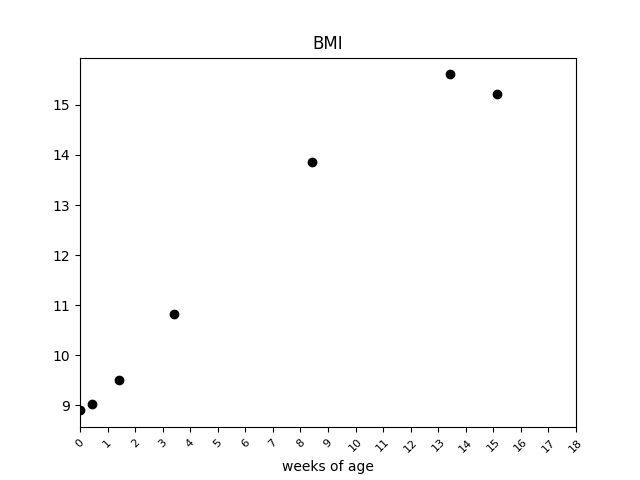
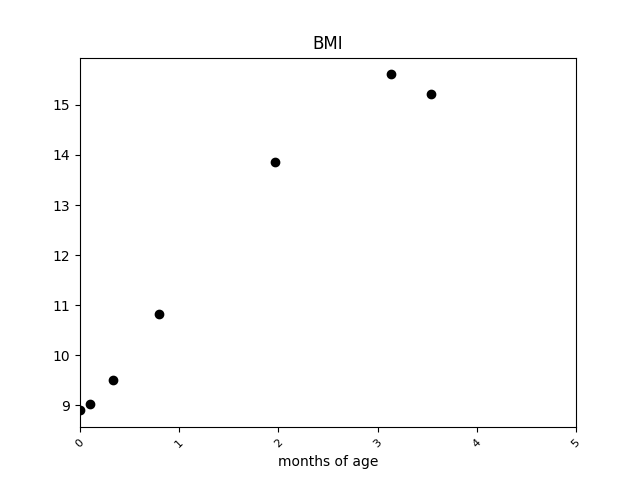
added option to display time in months instead of weeks

diff --git a/datita.py b/datita.py
@@ -253,43 +253,64 @@ def parse_dirty_diapers(lines_diapers):
     return data_diapers
 
 
-def week_ticks(data, label_type):
-    
+def write_date_tick_labels(date_tick_labels, the_datetime, week=None, month=None):
+
+    if label_type == 'week-date':
+        date_tick_labels.append('{month:d}/{day:d}'.format(month=the_datetime.month, day=the_datetime.day))
+    elif label_type == 'week':
+        date_tick_labels.append(week)
+    elif label_type == 'month':
+        date_tick_labels.append(month)
+        
+    return date_tick_labels
+
+
+def date_ticks(data, label_type):
+
     # determine starting week
     starting_week = 0
     for i in range(100):
         if birthdate + timedelta(weeks=i) <= data[0][0].date():
             starting_week = i
 
-    week_ticks = [birthdate + timedelta(weeks=starting_week)]
-    if label_type == 'date':
-        week_tick_labels = ['{month:d}/{day:d}'.format(month=week_ticks[0].month, day=week_ticks[0].day)]
-    elif label_type == 'week':
+    # determine starting week
+    starting_month = 0
+    for i in range(12):
+        if birthdate + timedelta(days=i*30) <= data[0][0].date():
+            starting_month = i
 
-        week_tick_labels = [starting_week]
-    
+    if label_type in ['week', 'week-date']:
+        date_ticks = [birthdate + timedelta(weeks=starting_week)]
+        unit_increment = timedelta(weeks=1)
+    elif label_type == 'month':
+        date_ticks = [birthdate + timedelta(days=starting_month*30)]
+        unit_increment = timedelta(days=30)
+
+    date_tick_labels = []
+    date_tick_labels = write_date_tick_labels(date_tick_labels, date_ticks[0], week=starting_week, month=starting_month)
+ 
     for i in range(100):
-        if week_ticks[-1] + timedelta(weeks=1) < data[-1][0].date():
-            new_date = week_ticks[-1] + timedelta(weeks=1)
-            week_ticks.append(new_date)
-            if label_type == 'date':
-                week_tick_labels.append('{month:d}/{day:d}'.format(month=new_date.month, day=new_date.day))
-            elif label_type == 'week':
-                week_tick_labels.append(starting_week + i + 1)
-    new_date = week_ticks[-1] + timedelta(weeks=1)
-    week_ticks.append(new_date)
-    if label_type == 'date':
-        week_tick_labels.append('{month:d}/{day:d}'.format(month=new_date.month, day=new_date.day))
-    elif label_type == 'week':
-        week_tick_labels.append(week_tick_labels[-1]+1)
+        if date_ticks[-1] + unit_increment <= data[-1][0].date():
+            new_date = date_ticks[-1] + unit_increment
+            date_ticks.append(new_date)
+
+            date_tick_labels = write_date_tick_labels(date_tick_labels, new_date, week = starting_week + i + 1, month = starting_month + i + 1)
+            
+    new_date = date_ticks[-1] + unit_increment
+    date_ticks.append(new_date)
+    date_tick_labels = write_date_tick_labels(date_tick_labels, new_date, week = date_tick_labels[-1] + 1, month = date_tick_labels[-1] + 1)
+
+    if label_type == 'week':
         plt.xlabel('weeks of age')
+    if label_type == 'month':
+        plt.xlabel('months of age')
 
     plt.gca().tick_params(axis = 'x', which = 'major', labelsize = 8)
-    plt.xticks(week_ticks, rotation=45)
-    plt.gca().set_xticklabels(week_tick_labels)
-    plt.gca().set_xlim([week_ticks[0], week_ticks[-1]])
+    plt.xticks(date_ticks, rotation=45)
+    plt.gca().set_xticklabels(date_tick_labels)
+    plt.gca().set_xlim([date_ticks[0], date_ticks[-1]])
 
-    return week_ticks, week_tick_labels
+    return date_ticks, date_tick_labels
 
 
 def time_ticks(axis):
@@ -430,7 +451,7 @@ def plot_sleep_24(data_sleep_24):
     # sleep schedule with day and night distinguished
     plt.figure()
     plt.title('Sleep schedule')
-    [week_dates, week_names] = week_ticks(data_sleep_24, 'week')
+    [week_dates, week_names] = date_ticks(data_sleep_24, 'week')
     time_ticks('y')
     for i in range(len(data_sleep_24)):
         x = data_sleep_24[i][0].date()
@@ -475,7 +496,7 @@ def plot_sleep_24(data_sleep_24):
     gridspec.GridSpec(3,3)
 
     plt.subplot2grid((3,3), (0,0), colspan=2, rowspan=3)
-    week_ticks(data_sleep_24, label_type)
+    date_ticks(data_sleep_24, label_type)
     plt.ylim([10., 18.])
     plt.ylabel('hours')
     plt.plot(sleep_dates, total_sleep_24, 'k.')
@@ -557,13 +578,13 @@ def plot_feeding(data_feeding):
     plt.title('Feeding totals')
     plt.ylim([0, 40.])
     plt.ylabel('ounces')
-    week_ticks(data_feeding, label_type)
+    date_ticks(data_feeding, label_type)
     plt.plot(feeding_dates, feeding_totals, 'k.')
     plt.savefig('feeding_totals.png')
 
     plt.figure()
     plt.title('Intake as a percentage of weight')
-    week_ticks(data_feeding, label_type)
+    date_ticks(data_feeding, label_type)
     plt.plot([feeding_dates[0], feeding_dates[-1]], [16, 16], 'k--')
     plt.plot([feeding_dates[0], feeding_dates[-1]], [12.5, 12.5], 'k--')
     for i in range(len(feeding_dates)):
@@ -573,7 +594,7 @@ def plot_feeding(data_feeding):
     # amount per feeding
     plt.figure()
     plt.title('Amount per feeding')
-    week_ticks(data_feeding, label_type)
+    date_ticks(data_feeding, label_type)
     time_ticks('y')
     
     size = [2, 3, 5, 6, 7, 8, 10, 12]
@@ -646,7 +667,7 @@ def plot_feeding(data_feeding):
     
     plt.gca().legend(handles=handles, loc='lower left')    
     plt.ylim([0, 0.4])
-    week_ticks(data_feeding, label_type)
+    date_ticks(data_feeding, label_type)
     plt.savefig('feeding_time_of_day.png')
 
 
@@ -666,7 +687,7 @@ def plot_diapers(data_diapers):
     
     plt.subplot2grid((3,3), (0,0), colspan=2, rowspan=3)
     time_ticks('y')
-    week_ticks(data_diapers, label_type)
+    date_ticks(data_diapers, label_type)
     for i in range(len(data_diapers)):
             for j in range(len(data_diapers[i][1])):
                 plt.plot(data_diapers[i][0], data_diapers[i][1][j], 'ko')
@@ -685,7 +706,7 @@ def plot_diapers(data_diapers):
     gridspec.GridSpec(3,3)
 
     plt.subplot2grid((3,3), (0,0), colspan=2, rowspan=3)
-    week_ticks(data_diapers, label_type)
+    date_ticks(data_diapers, label_type)
     plt.ylim([-0.5, 5.5])
     plt.plot(all_dates, n_dirty, 'ko')
 
@@ -766,7 +787,7 @@ def plot_percentiles(measurement, gender, measurement_data, n_months, official=T
             plt.gca().set_ylim(bottom=12)
             plt.ylabel('inches')
     
-        week_ticks(measurement_data, label_type)
+        date_ticks(measurement_data, label_type)
         plt.gca().legend(loc='best')
 
         markerstyle = 'o'
@@ -785,7 +806,7 @@ def plot_proportionality(data_length, data_head, data_weight):
 
     plt.figure()
     plt.title('Head circumference as a fraction of length')
-    week_ticks(data_head, label_type=label_type)
+    date_ticks(data_head, label_type=label_type)
 
     plt.plot([data_head[0][0], data_head[-1][0]], [0.3, 0.3], 'k--')
 
@@ -796,7 +817,7 @@ def plot_proportionality(data_length, data_head, data_weight):
 
     plt.figure()
     plt.title('BMI')
-    week_ticks(data_weight, label_type=label_type)
+    date_ticks(data_weight, label_type=label_type)
 
     for i in range(len(data_weight)-1):
         kg = data_weight[i][1]*0.453592
@@ -824,7 +845,7 @@ if __name__ == '__main__':
     colormap = plt.get_cmap('viridis').reversed()  
     morning = 8
     night = 20
-    label_type = 'week'
+    label_type = 'month'
 
     [lines_sleeps, lines_feedings, lines_diapers, lines_weights, lines_lengths] = read_data(Hatch_filename)
     
